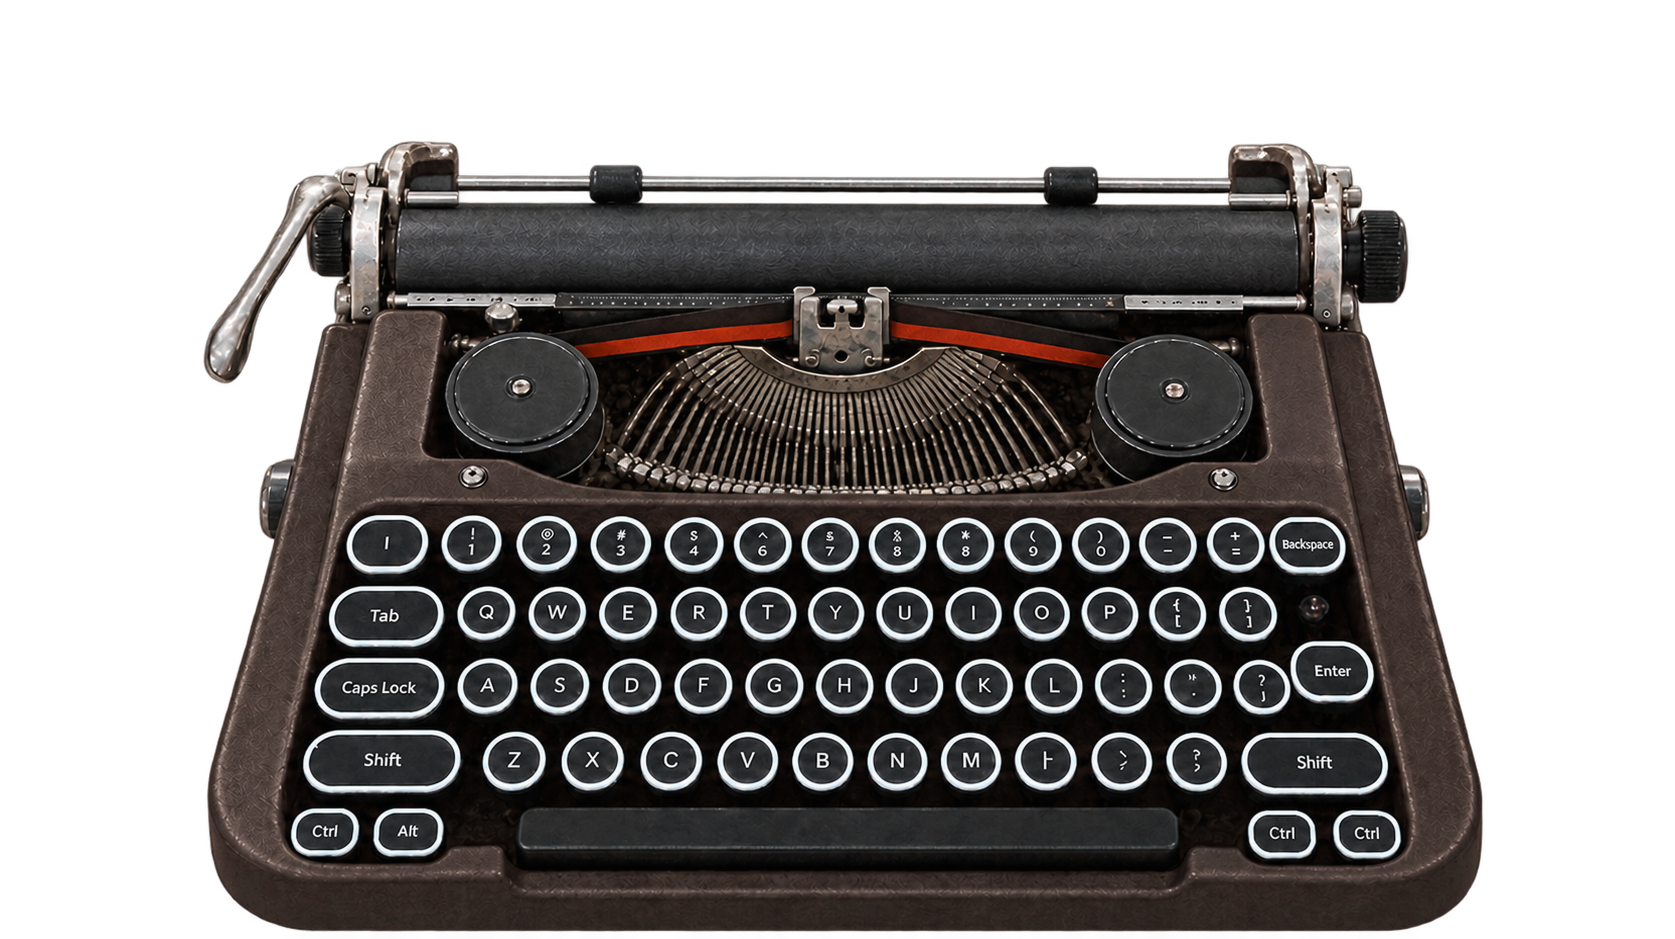
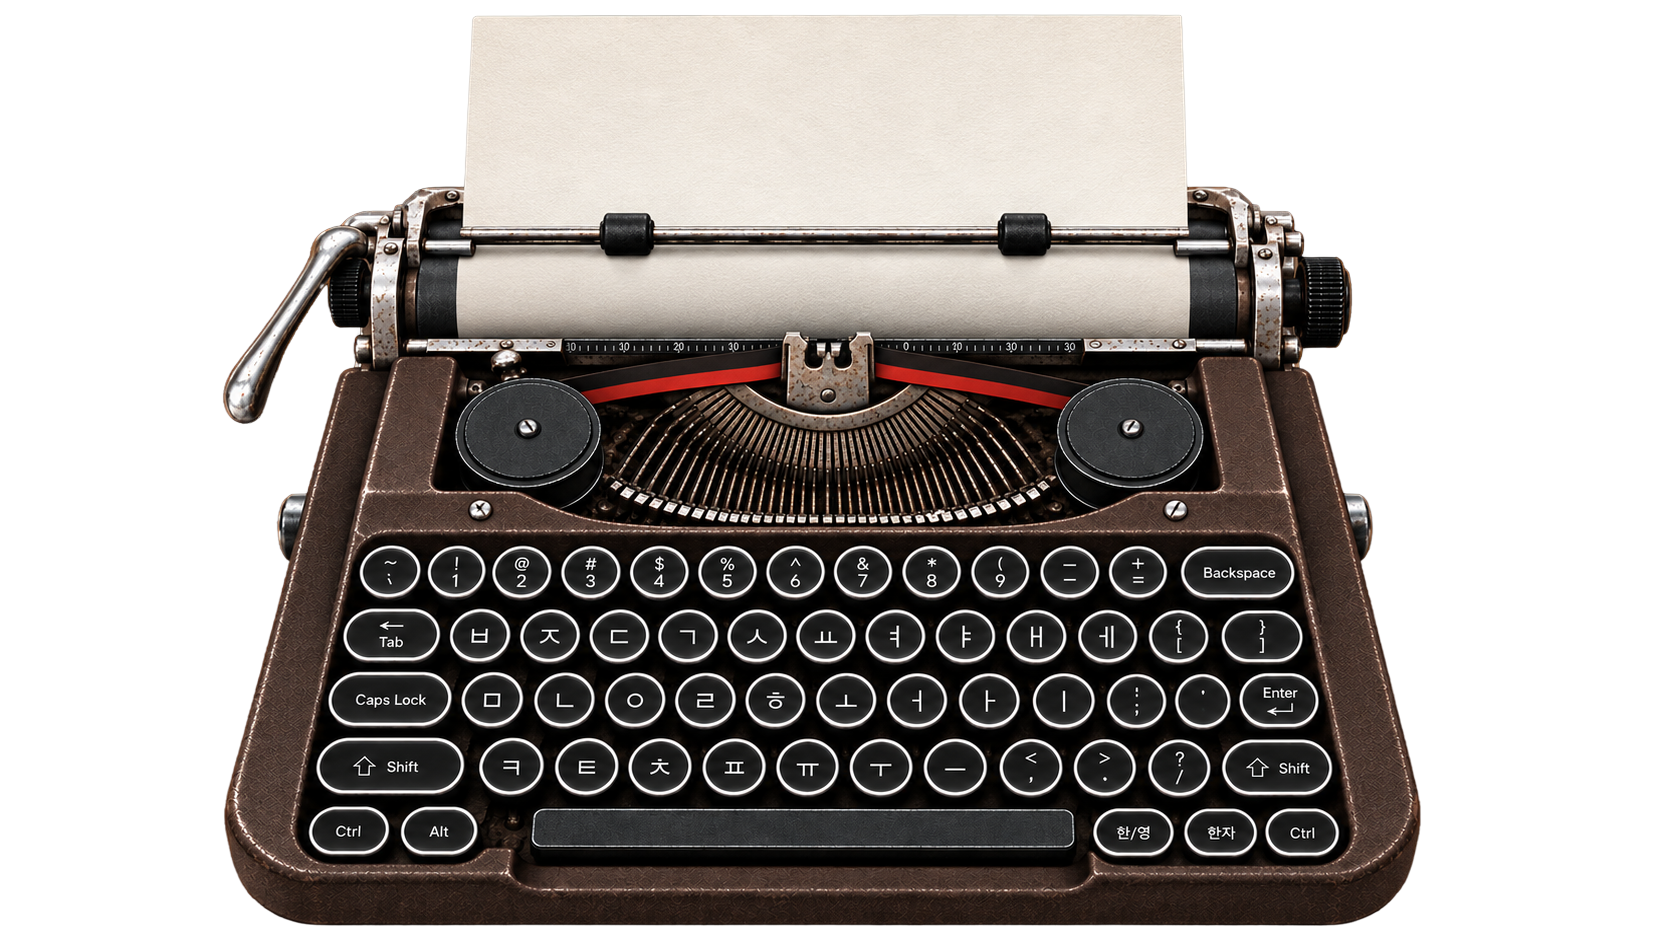
fix: use Korean typewriter artwork in game

diff --git a/src/features/game/components/TypewriterKeyOverlay.tsx b/src/features/game/components/TypewriterKeyOverlay.tsx
@@ -1,56 +1,63 @@
 const KEY_POINTS: Record<string, { x: number; y: number; w?: number; h?: number }> = {
-  Digit1: { x: 23.0, y: 58.0 },
-  Digit2: { x: 28.3, y: 58.0 },
-  Digit3: { x: 33.1, y: 58.0 },
-  Digit4: { x: 37.7, y: 58.0 },
-  Digit5: { x: 42.3, y: 58.0 },
-  Digit6: { x: 46.9, y: 58.0 },
-  Digit7: { x: 51.5, y: 58.0 },
-  Digit8: { x: 56.1, y: 58.0 },
-  Digit9: { x: 60.8, y: 58.0 },
-  Digit0: { x: 65.4, y: 58.0 },
-  Minus: { x: 70.0, y: 58.0 },
-  Equal: { x: 74.4, y: 58.0 },
-  Backspace: { x: 79.0, y: 57.8, w: 5.2, h: 5.1 },
-  Tab: { x: 23.4, y: 65.6, w: 7.0, h: 5.4 },
-  KeyQ: { x: 29.2, y: 65.6 },
-  KeyW: { x: 33.4, y: 65.6 },
-  KeyE: { x: 37.7, y: 65.6 },
-  KeyR: { x: 41.9, y: 65.6 },
-  KeyT: { x: 46.0, y: 65.6 },
-  KeyY: { x: 50.0, y: 65.6 },
-  KeyU: { x: 54.2, y: 65.6 },
-  KeyI: { x: 58.3, y: 65.6 },
-  KeyO: { x: 62.5, y: 65.6 },
-  KeyP: { x: 66.5, y: 65.6 },
-  BracketLeft: { x: 70.7, y: 65.6 },
-  BracketRight: { x: 75.0, y: 65.6 },
-  CapsLock: { x: 23.2, y: 73.0, w: 8.6, h: 5.8 },
-  KeyA: { x: 29.2, y: 73.0 },
-  KeyS: { x: 33.5, y: 73.0 },
-  KeyD: { x: 37.8, y: 73.0 },
-  KeyF: { x: 42.1, y: 73.0 },
-  KeyG: { x: 46.4, y: 73.0 },
-  KeyH: { x: 50.7, y: 73.0 },
-  KeyJ: { x: 55.0, y: 73.0 },
-  KeyK: { x: 59.3, y: 73.0 },
-  KeyL: { x: 63.6, y: 73.0 },
-  Semicolon: { x: 67.7, y: 73.0 },
-  Quote: { x: 71.8, y: 73.0 },
-  Enter: { x: 79.7, y: 73.0, w: 5.5, h: 6.5 },
-  ShiftLeft: { x: 22.9, y: 81.0, w: 9.0, h: 5.8 },
-  KeyZ: { x: 30.8, y: 81.0 },
-  KeyX: { x: 35.4, y: 81.0 },
-  KeyC: { x: 40.0, y: 81.0 },
-  KeyV: { x: 44.5, y: 81.0 },
-  KeyB: { x: 49.0, y: 81.0 },
-  KeyN: { x: 53.6, y: 81.0 },
-  KeyM: { x: 58.1, y: 81.0 },
-  Comma: { x: 62.7, y: 81.0 },
-  Period: { x: 67.3, y: 81.0 },
-  Slash: { x: 71.6, y: 81.0 },
-  ShiftRight: { x: 78.0, y: 81.0, w: 8.6, h: 5.8 },
-  Space: { x: 50.7, y: 88.5, w: 39.5, h: 4.9 },
+  Backquote: { x: 23.3, y: 61.0 },
+  Digit1: { x: 27.3, y: 61.0 },
+  Digit2: { x: 31.2, y: 61.0 },
+  Digit3: { x: 35.3, y: 61.0 },
+  Digit4: { x: 39.4, y: 61.0 },
+  Digit5: { x: 43.5, y: 61.0 },
+  Digit6: { x: 47.5, y: 61.0 },
+  Digit7: { x: 51.6, y: 61.0 },
+  Digit8: { x: 55.7, y: 61.0 },
+  Digit9: { x: 59.8, y: 61.0 },
+  // 제공된 이미지에는 0 키가 없어 0 입력도 숫자열 끝 키에서 표시한다.
+  Digit0: { x: 63.9, y: 61.0 },
+  Minus: { x: 63.9, y: 61.0 },
+  Equal: { x: 68.0, y: 61.0 },
+  Backspace: { x: 74.0, y: 61.0, w: 6.7, h: 5.8 },
+  Tab: { x: 23.3, y: 67.6, w: 5.8, h: 5.8 },
+  KeyQ: { x: 28.7, y: 67.6 },
+  KeyW: { x: 32.8, y: 67.6 },
+  KeyE: { x: 37.0, y: 67.6 },
+  KeyR: { x: 41.1, y: 67.6 },
+  KeyT: { x: 45.3, y: 67.6 },
+  KeyY: { x: 49.4, y: 67.6 },
+  KeyU: { x: 53.6, y: 67.6 },
+  KeyI: { x: 57.7, y: 67.6 },
+  KeyO: { x: 61.9, y: 67.6 },
+  KeyP: { x: 66.1, y: 67.6 },
+  BracketLeft: { x: 70.3, y: 67.6 },
+  BracketRight: { x: 75.4, y: 67.6 },
+  CapsLock: { x: 22.8, y: 74.4, w: 7.7, h: 5.8 },
+  KeyA: { x: 29.6, y: 74.4 },
+  KeyS: { x: 33.7, y: 74.4 },
+  KeyD: { x: 37.9, y: 74.4 },
+  KeyF: { x: 42.1, y: 74.4 },
+  KeyG: { x: 46.3, y: 74.4 },
+  KeyH: { x: 50.5, y: 74.4 },
+  KeyJ: { x: 54.7, y: 74.4 },
+  KeyK: { x: 58.9, y: 74.4 },
+  KeyL: { x: 63.0, y: 74.4 },
+  Semicolon: { x: 67.2, y: 74.4 },
+  Quote: { x: 71.4, y: 74.4 },
+  Enter: { x: 76.4, y: 74.4, w: 5.2, h: 5.8 },
+  ShiftLeft: { x: 23.2, y: 81.4, w: 8.8, h: 5.8 },
+  KeyZ: { x: 30.5, y: 81.4 },
+  KeyX: { x: 34.9, y: 81.4 },
+  KeyC: { x: 39.3, y: 81.4 },
+  KeyV: { x: 43.7, y: 81.4 },
+  KeyB: { x: 48.1, y: 81.4 },
+  KeyN: { x: 52.6, y: 81.4 },
+  KeyM: { x: 57.0, y: 81.4 },
+  Comma: { x: 61.4, y: 81.4 },
+  Period: { x: 65.8, y: 81.4 },
+  Slash: { x: 70.3, y: 81.4 },
+  ShiftRight: { x: 76.4, y: 81.4, w: 7.0, h: 5.8 },
+  ControlLeft: { x: 20.9, y: 88.4, w: 4.6, h: 5.1 },
+  AltLeft: { x: 26.3, y: 88.4, w: 4.6, h: 5.1 },
+  Space: { x: 48.0, y: 88.4, w: 32.5, h: 4.8 },
+  Lang1: { x: 67.8, y: 88.4, w: 4.6, h: 5.1 },
+  Lang2: { x: 73.0, y: 88.4, w: 4.6, h: 5.1 },
+  ControlRight: { x: 78.0, y: 88.4, w: 4.6, h: 5.1 },
 }
 
 export function TypewriterKeyOverlay({ activeCodes }: { activeCodes: Set<string> }) {
@@ -66,8 +73,8 @@ export function TypewriterKeyOverlay({ activeCodes }: { activeCodes: Set<string>
             style={{
               left: `${point.x}%`,
               top: `${point.y}%`,
-              width: `${point.w ?? 4.2}%`,
-              height: `${point.h ?? 5.5}%`,
+              width: `${point.w ?? 3.6}%`,
+              height: `${point.h ?? 5.8}%`,
             }}
           />
         )

diff --git a/src/features/game/components/TypewriterKeyOverlay.test.tsx b/src/features/game/components/TypewriterKeyOverlay.test.tsx
@@ -3,7 +3,7 @@ import { describe, expect, it } from 'vitest'
 import { TypewriterKeyOverlay } from './TypewriterKeyOverlay'
 
 describe('TypewriterKeyOverlay', () => {
-  it('renders the adjusted number row hotspots without a Backquote slot', () => {
+  it('places the number row highlights over the supplied Korean typewriter', () => {
     const { container } = render(
       <TypewriterKeyOverlay
         activeCodes={
@@ -28,21 +28,12 @@ describe('TypewriterKeyOverlay', () => {
 
     const hotspots = [...container.querySelectorAll('.typewriter-key-hotspot')]
 
-    expect(hotspots).toHaveLength(12)
-    expect(hotspots.map((hotspot) => hotspot.getAttribute('style'))).toEqual([
-      'left: 23%; top: 58%; width: 4.2%; height: 5.5%;',
-      'left: 28.3%; top: 58%; width: 4.2%; height: 5.5%;',
-      'left: 33.1%; top: 58%; width: 4.2%; height: 5.5%;',
-      'left: 37.7%; top: 58%; width: 4.2%; height: 5.5%;',
-      'left: 42.3%; top: 58%; width: 4.2%; height: 5.5%;',
-      'left: 46.9%; top: 58%; width: 4.2%; height: 5.5%;',
-      'left: 51.5%; top: 58%; width: 4.2%; height: 5.5%;',
-      'left: 56.1%; top: 58%; width: 4.2%; height: 5.5%;',
-      'left: 60.8%; top: 58%; width: 4.2%; height: 5.5%;',
-      'left: 65.4%; top: 58%; width: 4.2%; height: 5.5%;',
-      'left: 70%; top: 58%; width: 4.2%; height: 5.5%;',
-      'left: 74.4%; top: 58%; width: 4.2%; height: 5.5%;',
-    ])
+    expect(hotspots).toHaveLength(13)
+    expect(hotspots[0]).toHaveStyle({ left: '23.3%', top: '61%' })
+    expect(hotspots[1]).toHaveStyle({ left: '27.3%', top: '61%' })
+    expect(hotspots[10]).toHaveStyle({ left: '63.9%', top: '61%' })
+    expect(hotspots[11]).toHaveStyle({ left: '63.9%', top: '61%' })
+    expect(hotspots[12]).toHaveStyle({ left: '68%', top: '61%' })
   })
 
   it('renders the adjusted Backspace highlight hotspot', () => {
@@ -54,9 +45,23 @@ describe('TypewriterKeyOverlay', () => {
 
     expect(hotspot).toBeInTheDocument()
     expect(hotspot).toHaveStyle({
-      left: '79%',
-      top: '57.8%',
-      width: '5.2%',
+      left: '74%',
+      top: '61%',
+      width: '6.7%',
     })
+  })
+
+  it('keeps Korean letter, Shift, Enter, and Space highlights on their keys', () => {
+    const { container } = render(
+      <TypewriterKeyOverlay
+        activeCodes={new Set(['KeyR', 'ShiftLeft', 'Enter', 'Space'])}
+      />,
+    )
+    const [letter, shift, enter, space] = container.querySelectorAll('.typewriter-key-hotspot')
+
+    expect(letter).toHaveStyle({ left: '41.1%', top: '67.6%' })
+    expect(shift).toHaveStyle({ left: '23.2%', top: '81.4%' })
+    expect(enter).toHaveStyle({ left: '76.4%', top: '74.4%' })
+    expect(space).toHaveStyle({ left: '48%', top: '88.4%', width: '32.5%' })
   })
 })

diff --git a/src/styles/global.css b/src/styles/global.css
@@ -820,22 +820,6 @@
   width: min(61vw, 960px);
   translate: -50% 0;
 }
-.typewriter-hero::before {
-  content: '';
-  position: absolute;
-  left: 19%;
-  right: 18%;
-  top: -18.5%;
-  height: 35.5%;
-  z-index: -1;
-  border-radius: 2px 2px 6px 6px;
-  background:
-    linear-gradient(180deg, rgb(255 253 246 / 98%), rgb(248 240 224 / 98%));
-  box-shadow:
-    inset 0 0 0 1px rgb(80 55 38 / 13%),
-    inset 0 -20px 24px rgb(83 55 35 / 8%),
-    0 12px 18px rgb(42 25 16 / 16%);
-}
 .typewriter-hero > img {
   display: block;
   width: 100%;
@@ -846,32 +830,30 @@
 }
 .typewriter-paper-copy {
   position: absolute;
-  left: 20.5%;
-  top: -10.8%;
-  width: 60.5%;
-  height: 21%;
+  left: 28.4%;
+  top: 3%;
+  width: 42.3%;
+  height: 20%;
   display: grid;
-  grid-template-rows: minmax(1.25em, auto) 1fr;
   align-content: start;
-  gap: clamp(4px, .5vw, 8px);
+  gap: 4px;
   overflow: hidden;
-  padding: clamp(5px, .7vw, 9px) clamp(18px, 2.1vw, 30px) 0;
+  padding: clamp(5px, .5vw, 8px) clamp(10px, 1vw, 16px) 0;
   color: #221f1d;
   font-family: 'Maru Buri', serif;
   text-align: left;
   pointer-events: none;
 }
 .typewriter-previous {
-  min-height: 1.35em;
+  min-height: 1.2em;
   margin: 0;
   color: #76675b;
-  font-size: clamp(12px, 1.05vw, 18px);
-  line-height: 1.34;
+  font-size: clamp(10px, .85vw, 14px);
+  line-height: 1.2;
   opacity: .74;
   overflow: hidden;
-  display: -webkit-box;
-  -webkit-line-clamp: 2;
-  -webkit-box-orient: vertical;
+  white-space: nowrap;
+  text-overflow: ellipsis;
 }
 .typewriter-current {
   min-width: 0;
@@ -883,7 +865,7 @@
   padding: 0;
   background: transparent;
   box-shadow: none;
-  font-size: clamp(17px, 1.62vw, 27px);
+  font-size: clamp(13px, 1.1vw, 18px);
   overflow: hidden;
 }
 .typewriter-current .typing-sentence {

diff --git a/src/features/game/GamePage.tsx b/src/features/game/GamePage.tsx
@@ -417,7 +417,7 @@ export function GamePage() {
             <div className="typewriter-hero" aria-label="타자 게임 진행 화면">
               <img src={writerMain} alt="" aria-hidden />
               <div className="typewriter-paper-copy">
-                <p className="typewriter-previous">{previousSentence}</p>
+                {previousSentence && <p className="typewriter-previous">{previousSentence}</p>}
                 <div className="typewriter-current" key={game.currentIndex}>
                   <SentenceDisplay
                     sentence={sentence.content}
